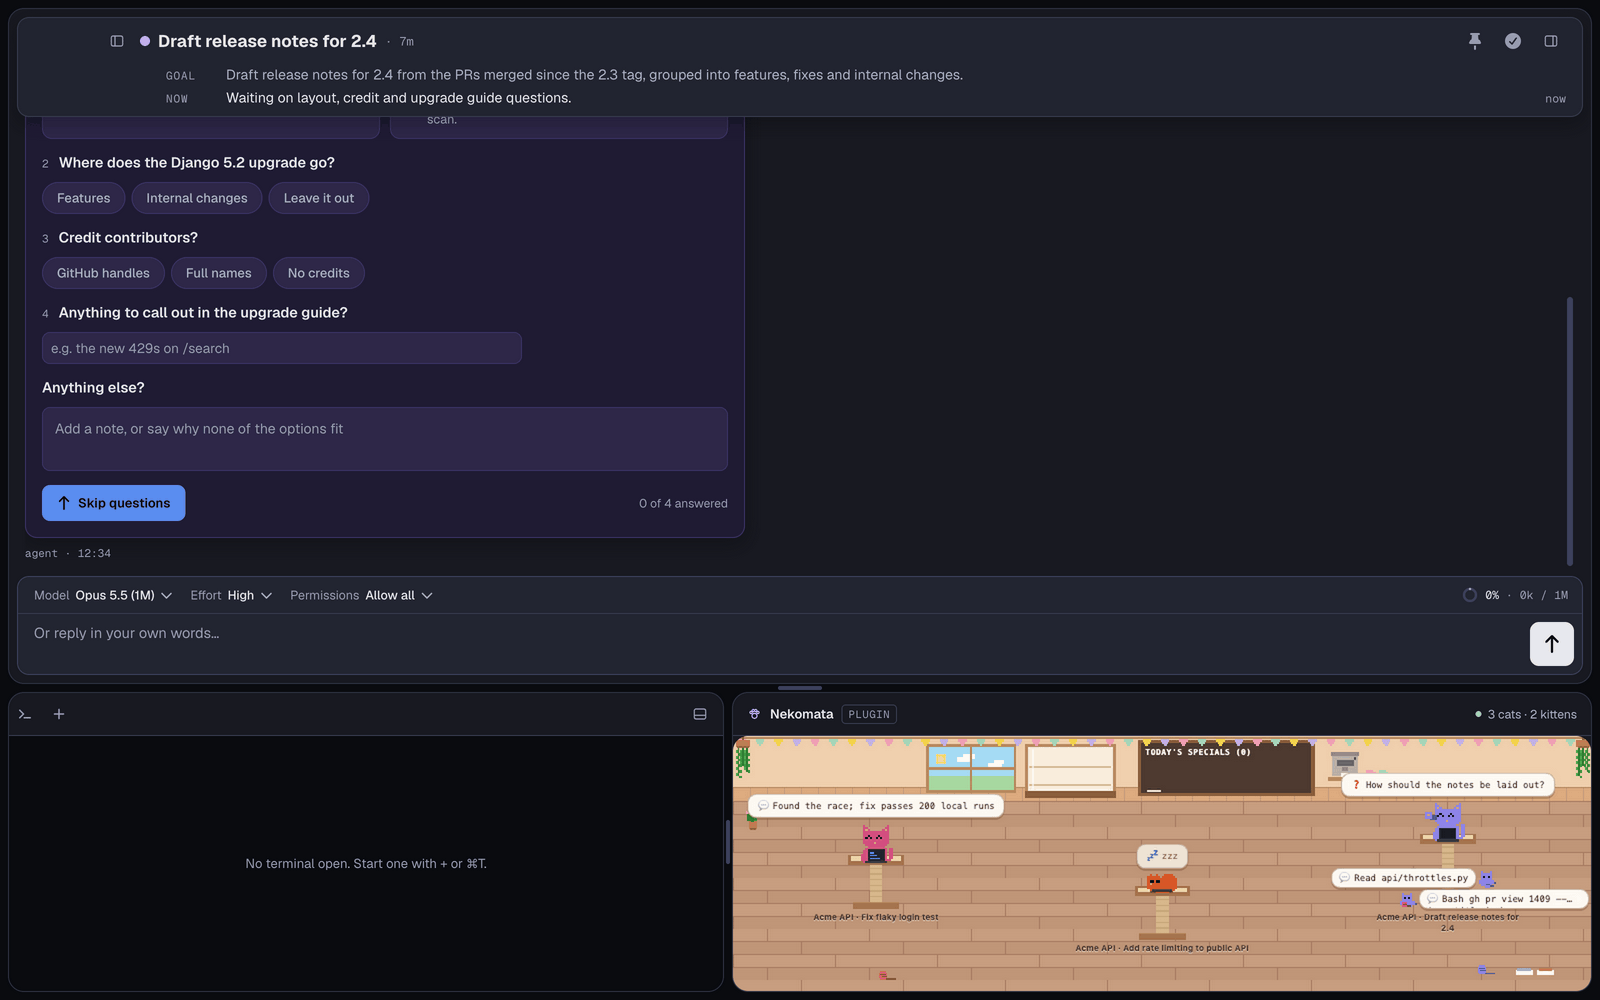
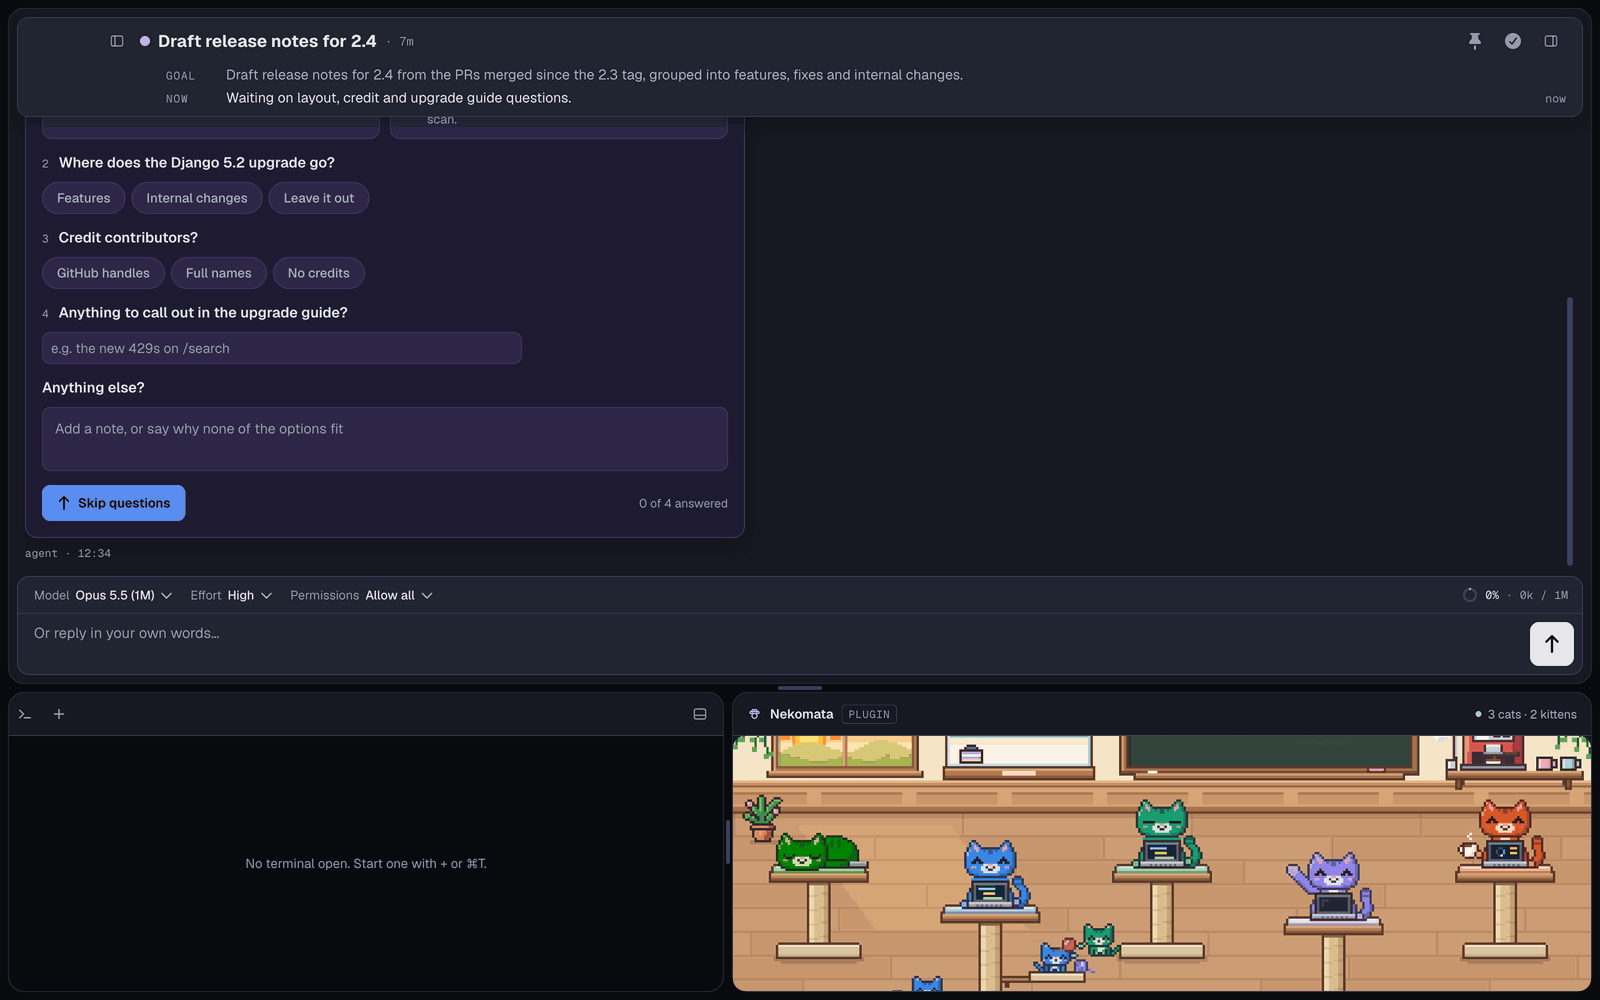
631: Show Nekomata's 32bit style in the README's plugin picture

Changed region(s): [[0.4375, 0.713, 1.0, 0.992]]

diff --git a/docs/doc-images.md b/docs/doc-images.md
@@ -17,6 +17,12 @@ Each image is captured in a window that's never shown, then saved with a 256-col
 every image here already is. Regenerating overwrites the file in `docs/images/` in place; look it over (and check it's
 under about 150 KB, and shows no `/var/folders` or `/Users/` path) before committing.
 
+**The committed `nekomata.png` is a composite (#631).** Its plugin panel is Nekomata's own canned screenshot of the
+32bit style (`docs/style-32bit.png` in its repo), scaled to the panel's width, cropped to its height and pasted in
+with the panel's rounded corners, over a capture made with the recipe below. So the scene is Nekomata's sample
+scene, not this fixture's tasks, and the panel's header count doesn't match it. Regenerating with the recipe
+replaces it with a live capture of whichever style the built plugin draws.
+
 **Nekomata** (`nekomata.png`) needs its built Glade plugin, from its own repo
 (github.com/lockhart-ai/nekomata, `./build.sh glade`), which isn't in this one: pass its folder as an extra argument
 after `--`, or set `NEKOMATA_PLUGIN`:
@@ -52,7 +58,7 @@ above 0 clears it (`APPEAR_WINDOW_MS` in `src/renderer/questions/QuestionCard.ts
 | `subagents.png` | A task working with three subagents running and one done, each its own tab in Agents. | `--seed subagents.json --size 1600x1000` |
 | `question.png` | A question card: the agent's reply, four questions, Anything else. | `--seed question.json --size 1600x1100` |
 | `permission.png` | A permission card for a Bash command, and another for a file edit's diff; in the Agents tab, what was decided about the calls answered before them. | `--seed permission-card.json --size 1600x1000` |
-| `nekomata.png` | The Nekomata plugin beside the terminal: a cat per task, a question bubble over the one waiting on you. | `nekomata.mjs` (needs the built plugin) |
+| `nekomata.png` | The Nekomata plugin beside the terminal, in its 32bit style: a cat at a desk for each task, kittens for their subagents. | `nekomata.mjs` (needs the built plugin); see the note below |
 | `control.png` | Settings › Control, turned on, with the endpoint and the connect command. | `--seed settings-control.json --size 1600x1000`, clicked to Control |
 | `guide/window.png` | The whole window: task list, chat and header, right panel, terminal. | `--seed task-workspace.json --size 1440x960` |
 | `guide/welcome.png` | The first-run welcome screen. | no seed, `--size 1280x800` |

diff --git a/README.md b/README.md
@@ -73,7 +73,7 @@ note the agent reads.
 tasks. Here, [Nekomata](https://github.com/lockhart-ai/nekomata) draws each task as a cat and each subagent as a
 kitten; the cat with a raised paw is waiting on you.
 
-![The Nekomata plugin beside the terminal, with a cat per task and a question bubble over the one waiting on you](docs/images/nekomata.png)
+![The Nekomata plugin beside the terminal, in its 32bit style: a cat at a desk for each task, and kittens for their subagents](docs/images/nekomata.png)
 
 **Other agents can drive it.** Turn on Settings › Control and any Claude Code chat or script on your Mac can list,
 create and update tasks, import your Claude Code history, or backfill past work from your notes.
